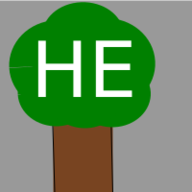
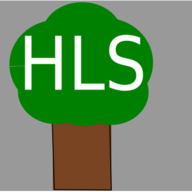
replace tabicons

diff --git a/gulpfile0.js b/gulpfile0.js
@@ -1,0 +1,117 @@
+'use strict';
+
+var gulp = require('gulp'),
+    sass = require('gulp-sass'),
+    del = require('del'),
+    imagemin = require('gulp-imagemin'),
+    uglify = require('gulp-uglify'),
+    usemin = require('gulp-usemin'),
+    rev = require('gulp-rev'),
+    cleanCss = require('gulp-clean-css'),
+    flatmap = require('gulp-flatmap'),
+    htmlmin = require('gulp-htmlmin'),
+    browserSync = require('browser-sync');
+
+
+    gulp.task('sass', function () {
+  return gulp.src('./css/*.scss')
+    .pipe(sass().on('error', sass.logError))
+    .pipe(gulp.dest('./css'));
+});
+
+gulp.task('sass:watch', function () {
+  gulp.watch('./css/*.scss', ['sass']);
+});
+
+gulp.task('browser-sync', function () {
+   var files = [
+      './*.html',
+      './services/*.html',
+      './css/*.css',
+      './img/*.{png,jpg,gif}',
+      './img/custom/*.{png,jpg,gif}',
+      './js/*.js'
+   ];
+
+   browserSync.init(files, {
+      server: {
+         baseDir: "./"
+      }
+   });
+
+});
+
+// Default task
+gulp.task('default', ['browser-sync'], function() {
+    gulp.start('sass:watch');
+});
+
+// Clean
+gulp.task('clean', function() {
+    return del(['dist']);
+});
+
+gulp.task('copyfonts', function() {
+   gulp.src('./fonts/**/*.{ttf,woff,eof,svg}*')
+   .pipe(gulp.dest('./dist/fonts'));
+});
+
+// Images
+gulp.task('imagemin', function() {
+  return gulp.src('img/*.{png,jpg,gif}')
+    .pipe(imagemin({ optimizationLevel: 3, progressive: true, interlaced: true }))
+    .pipe(gulp.dest('dist/img'));
+});
+// Custom Images
+gulp.task('customimagemin', function() {
+  return gulp.src('./img/custom/*.{png,jpg,gif}')
+    .pipe(imagemin({ optimizationLevel: 3, progressive: true, interlaced: true }))
+    .pipe(gulp.dest('dist/img/custom'));
+});
+
+gulp.task('usemincss', function() {
+  return gulp.src('./css/styles.css')
+  .pipe(flatmap(function(stream, file){
+      return stream
+        .pipe(usemin({
+            css: [ rev() ],
+            inlinecss: [ cleanCss(), 'concat' ]
+        }))
+    }))
+    .pipe(gulp.dest('dist/css'));
+});
+
+gulp.task('usemin', function() {
+  return gulp.src('./*.html')
+  .pipe(flatmap(function(stream, file){
+      return stream
+        .pipe(usemin({
+            css: [ rev() ],
+            html: [ function() { return htmlmin({ collapseWhitespace: true })} ],
+            js: [ uglify(), rev() ],
+            inlinejs: [ uglify() ],
+            inlinecss: [ cleanCss(), 'concat' ]
+        }))
+    }))
+    .pipe(gulp.dest('dist/'));
+});
+
+gulp.task('useminservices', function() {
+  return gulp.src('./services/*.html')
+  .pipe(flatmap(function(stream, file){
+      return stream
+        .pipe(usemin({
+            css: [ rev() ],
+            html: [ function() { return htmlmin({ collapseWhitespace: true })} ],
+            js: [ uglify(), rev() ],
+            inlinejs: [ uglify() ],
+            inlinecss: [ cleanCss(), 'concat' ]
+        }))
+    }))
+    .pipe(gulp.dest('dist/services/'));
+});
+
+
+gulp.task('build',['clean'], function() {
+    gulp.start('copyfonts','imagemin', 'customimagemin', 'usemin', 'useminservices', 'usemincss');
+});
